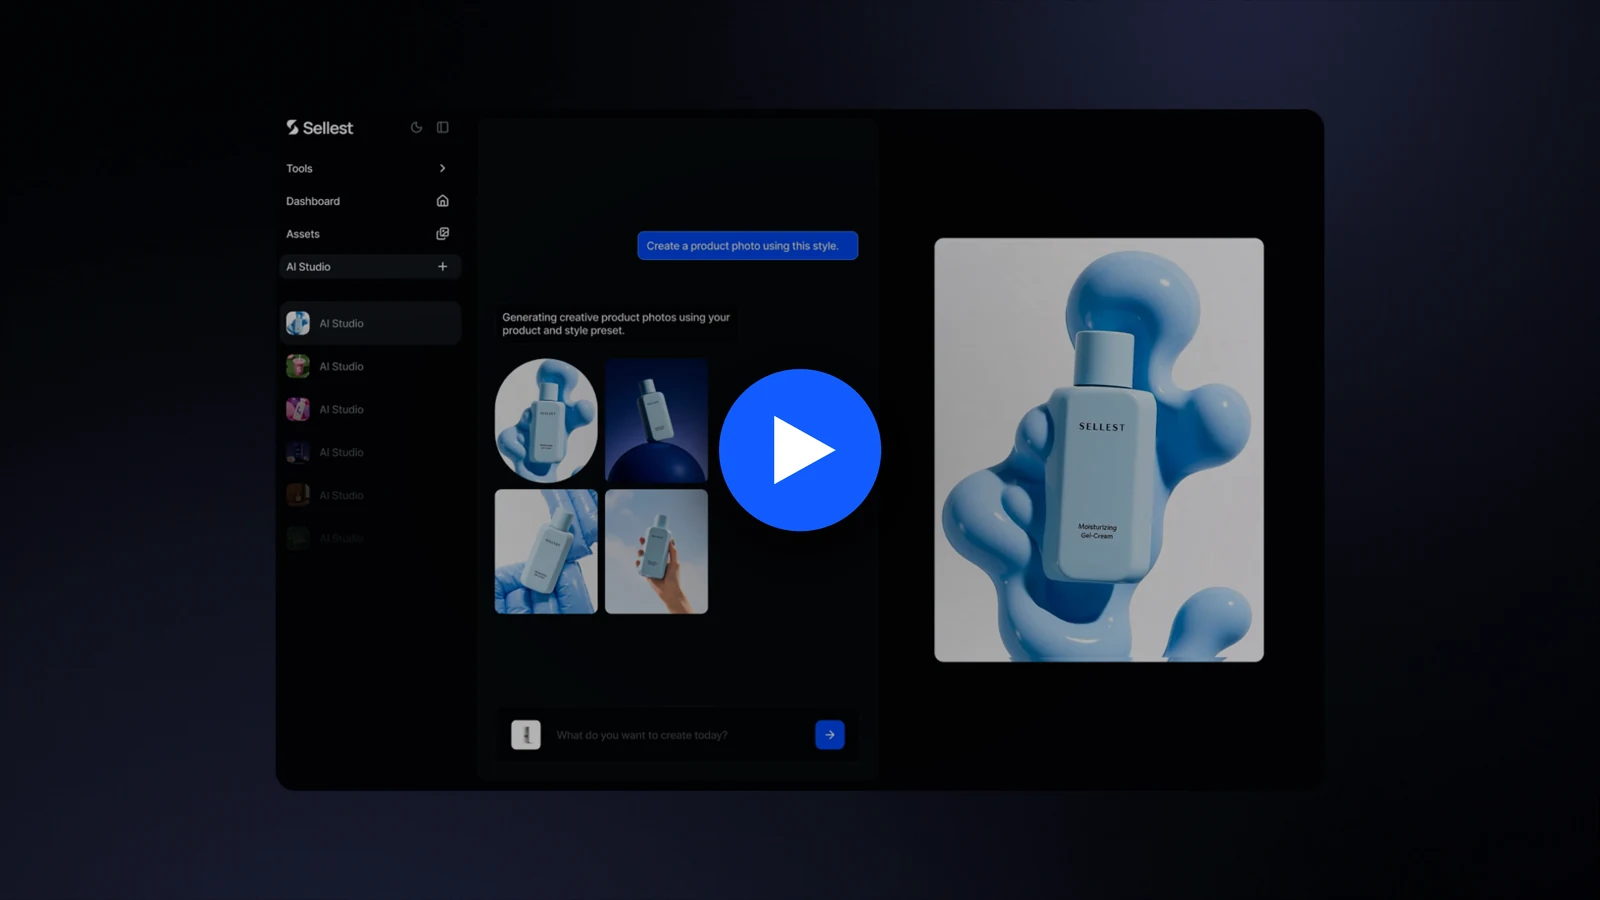
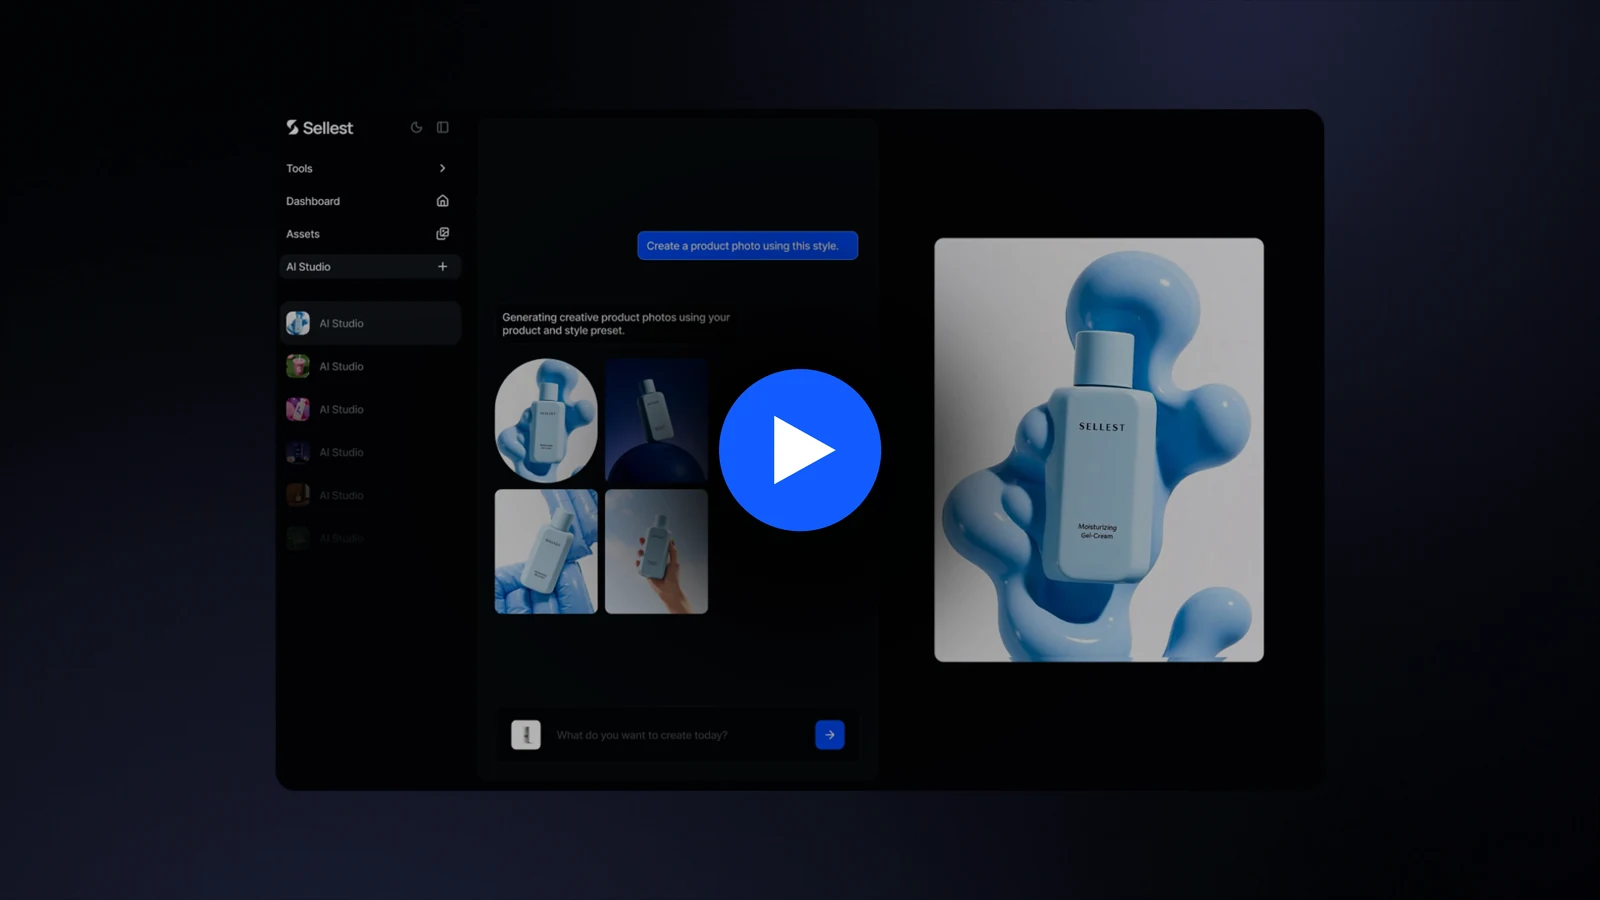
(docs) widen the play button shadow on the video thumbnail

Changed region(s): [[0.375, 0.4356, 0.4688, 0.6844], [0.5625, 0.3422, 0.625, 0.6844]]

diff --git a/profile/README.md b/profile/README.md
@@ -32,7 +32,7 @@ tools together, so you can ask for what you want instead of clicking through the
 
 <p align="center">
   <a href="https://vimeo.com/1133867151">
-    <img src="https://raw.githubusercontent.com/Sellest-AI/.github/main/profile/assets/sellest-agent-video.webp" alt="Watch: Introducing the Sellest agent" width="85%" />
+    <img src="https://raw.githubusercontent.com/Sellest-AI/.github/main/profile/assets/sellest-agent-video.webp?v=2" alt="Watch: Introducing the Sellest agent" width="85%" />
   </a>
   <br />
   <sub>▶ <a href="https://vimeo.com/1133867151">Watch the Sellest agent in action</a></sub>
